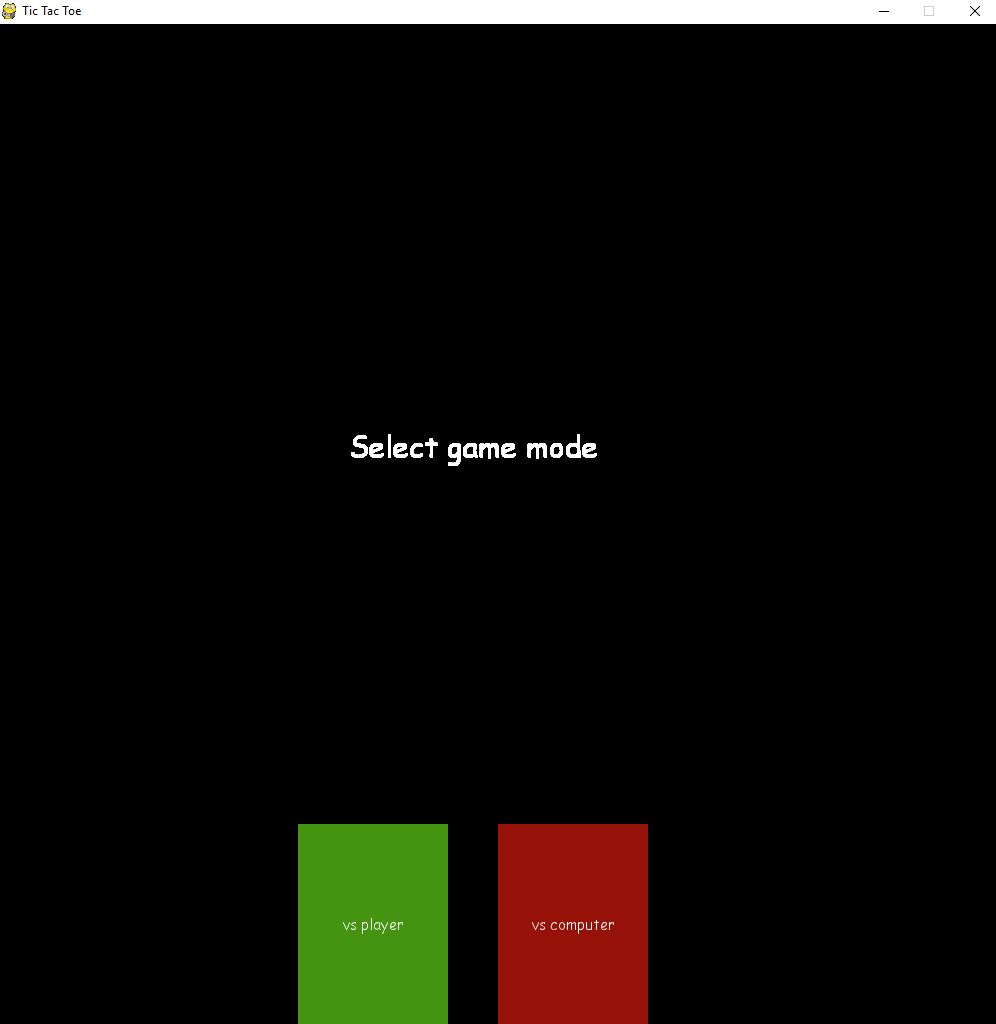
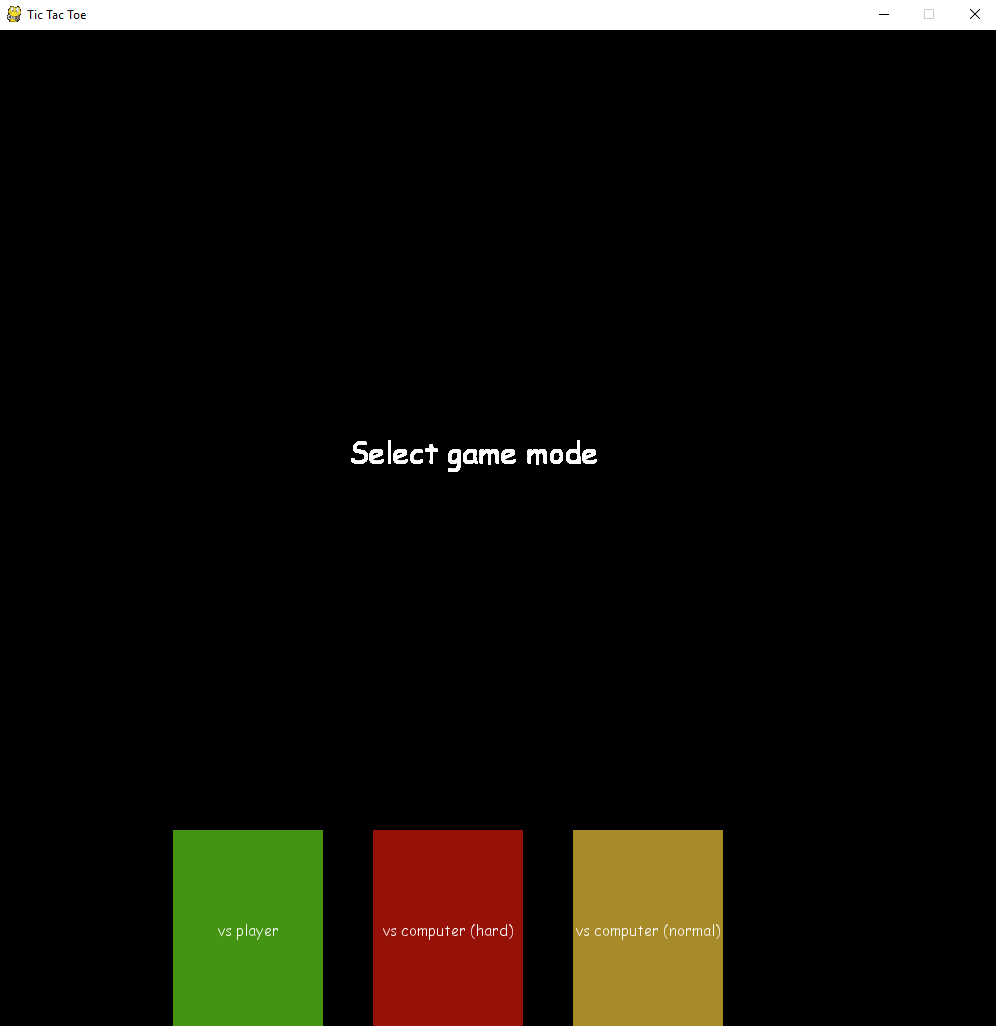
added a new game mode: vs computer (normal); split the main file into several modules

Changed region(s): [[0.1556, 0.7812, 0.747, 1.0], [0.0, 0.0, 1.0, 0.0312], [0.3424, 0.4062, 0.5914, 0.4688]]

diff --git a/main.py b/main.py
@@ -1,22 +1,14 @@
 import pygame
-import datetime
+import time
+import random
 from pygame.locals import *
-from buttons import Button, font, sound
+from utils import *
+from buttons import *
+import ai
+
 pygame.init()
-white = (255, 255, 255)
-green_active = (114, 207, 56)
-green_inactive = (68, 148, 18)
-red_active = (201, 68, 58)
-red_inactive = (150, 18, 9)
 
-buttons = []
-MODE_VS = 1
-MODE_AI = 2
 game_mode = 0
-screen = pygame.display.set_mode([1000, 1000])
-
-def make_relative((a, b)):
-    return (a-200)/200, (b-200)/200
 
 class Board:
     grid = []
@@ -50,7 +42,9 @@ class Board:
         pygame.display.flip()
 
     def check(self):
-        (row, col) = make_relative(pygame.mouse.get_pos())
+
+        (row, col) = pygame.mouse.get_pos()
+        (row, col) = make_relative(row, col)
 
         if row < 0 or row > 2 or col < 0 or col > 2:
             return
@@ -74,6 +68,8 @@ class Board:
         self.check_win(last_player)
 
     def has_won(self, whom):
+        self.show()
+        time.sleep(2)
         self.scores[whom] += 1
         self.reset()
 
@@ -84,6 +80,23 @@ class Board:
         if wins(self.grid, player):
             return self.has_won(player)
 
+done = False
+intro = True
+game_board = Board()
+
+buttons = []
+
+buttons.append(Button("vs player", 175, 800, 150, 200, green_active, green_inactive, lambda: start_game(MODE_VS)))
+buttons.append(Button("vs computer (hard)", 375, 800, 150, 200, red_active, red_inactive, lambda: start_game(MODE_AI)))
+buttons.append(Button("vs computer (normal)", 575, 800, 150, 200, orange_active, orange_inactive, lambda: start_game(MODE_AI_N)))
+
+def start_game(mode):
+    global intro, game_mode
+    intro = False
+    game_mode = mode
+    game_board.reset()
+    game_board.show()
+
 def draw_intro():
     text = font.render("Select game mode", True, white)
     screen.blit(text, (350, 400))
@@ -93,104 +106,15 @@ def draw_intro():
 
     pygame.display.flip()
 
-def start_game():
-    global game_board
-    game_board.reset()
-    game_board.show()
-
-def mode_vs():
-    global game_mode, intro
-    intro = False
-    game_mode = MODE_VS
-    start_game()
-
-def mode_ai():
-    global game_mode, intro
-    intro = False
-    game_mode = MODE_AI
-    print("mode_ai")
-    start_game()
-
-def wins(grid, player):
-    win_grids = [
-        [grid[0][0], grid[0][1], grid[0][2]],
-        [grid[1][0], grid[1][1], grid[1][2]],
-        [grid[2][0], grid[2][1], grid[2][2]],
-        [grid[0][0], grid[1][0], grid[2][0]],
-        [grid[0][1], grid[1][1], grid[2][1]],
-        [grid[0][2], grid[1][2], grid[2][2]],
-        [grid[0][0], grid[1][1], grid[2][2]],
-        [grid[2][0], grid[1][1], grid[0][2]],
-    ]
-    return [player, player, player] in win_grids
-
-def empty_cells(grid):
-    empty = []
-
-    for i, row in enumerate(grid):
-        for j, col in enumerate(row):
-            if col == None:
-                empty.append([i, j])
-    return empty
-
-def evaluate(grid):
-    if wins(grid, 'X'):
-        return -10
-    if wins(grid, '0'):
-        return 10
-    else:
-        return 0
-
-def is_over(grid):
-    return wins(grid, 'X') or wins(grid, 'O')
-
-def minimax(grid, depth, maximise):
-    if depth == 0 or is_over(grid):
-        return [evaluate(grid), -1, -1]
-
-    if maximise:
-        best = [-1000, -1, -1]
-    else:
-        best = [1000, -1, -1]
-
-    for c in empty_cells(grid):
-        i, j = c[0], c[1]
-        grid[i][j] = '0' if maximise else 'X'
-        score = minimax(grid, depth-1, False if maximise else True)
-        grid[i][j] = None
-        score[1], score[2] = i, j
-
-        if maximise:
-            if score[0] > best[0]:
-                best = score
-        else:
-            if score[0] < best[0]:
-                best = score
-
-    return best
-
-def best_ai_move():
-    global game_board
-    max_depth = len(empty_cells(game_board.grid))
-    best = minimax(game_board.grid, max_depth, True)
-    game_board.make_move(best[1], best[2])
-
-
-done = False
-intro = True
-game_board = Board()
-buttons.append(Button("vs player", 300, 800, 150, 200, green_active, green_inactive, mode_vs))
-buttons.append(Button("vs computer", 500, 800, 150, 200, red_active, red_inactive, mode_ai))
-
 while not done:
     for e in pygame.event.get():
         if e.type is QUIT:
             done = True
         elif e.type is MOUSEBUTTONUP and intro == False:
-            if game_mode == MODE_VS or game_mode == MODE_AI and game_board.player == 'X':
+            if game_mode == MODE_VS or game_board.player == 'X':
                 game_board.check()
-    if game_mode == MODE_AI and game_board.player == '0':
-        best_ai_move()
+    if game_mode != MODE_VS and game_board.player == '0':
+        ai.move(game_board, game_mode)
 
     if intro:
         draw_intro()

diff --git a/ai.py b/ai.py
@@ -1,0 +1,62 @@
+from utils import wins, MODE_VS, MODE_AI, MODE_AI_N
+
+COMP = 1
+HUMA = -1
+
+def empty_cells(grid):
+    empty = []
+
+    for i, row in enumerate(grid):
+        for j, col in enumerate(row):
+            if col == None:
+                empty.append([i, j])
+    return empty
+
+def evaluate(grid):
+    if wins(grid, 'X'):
+        return -10
+    if wins(grid, '0'):
+        return 10
+    else:
+        return 0
+
+def is_over(grid):
+    return wins(grid, 'X') or wins(grid, '0')
+
+def minimax(grid, depth, player):
+    if depth == 0 or is_over(grid):
+        return [evaluate(grid), -1, -1]
+
+    if player == COMP:
+        best = [-1000, -1, -1]
+    else:
+        best = [1000, -1, -1]
+
+    for c in empty_cells(grid):
+        i, j = c[0], c[1]
+        grid[i][j] = '0' if player == COMP else 'X'
+        score = minimax(grid, depth-1, -player)
+        grid[i][j] = None
+        score[1], score[2] = i, j
+
+        if player == COMP:
+            if score[0] > best[0]:
+                best = score
+        else:
+            if score[0] < best[0]:
+                best = score
+
+    return best
+
+def move(board, mode):
+    if(mode == MODE_AI_N):
+        move = random.choice(empty_cells(board.grid))
+    else:
+        move = best_move(board.grid)
+
+    board.make_move(move[0], move[1])
+
+def best_move(grid):
+    max_depth = len(empty_cells(grid))
+    best = minimax(grid, max_depth, COMP)
+    return (best[1], best[2])

diff --git a/utils.py b/utils.py
@@ -1,0 +1,36 @@
+import pygame
+
+pygame.init()
+
+screen = pygame.display.set_mode([1000, 1000])
+font = pygame.font.SysFont("comicsansms",20)
+
+white = (255, 255, 255)
+green_active = (114, 207, 56)
+green_inactive = (68, 148, 18)
+red_active = (201, 68, 58)
+red_inactive = (150, 18, 9)
+orange_active = (232, 192, 63)
+orange_inactive = (168, 138, 40)
+
+
+MODE_VS = 1
+MODE_AI = 2
+MODE_AI_N = 3
+
+
+def make_relative(a, b):
+    return (a-200)//200, (b-200)//200
+
+def wins(grid, player):
+    win_grids = [
+        [grid[0][0], grid[0][1], grid[0][2]], # row 1
+        [grid[1][0], grid[1][1], grid[1][2]], # row 2
+        [grid[2][0], grid[2][1], grid[2][2]], # row 3
+        [grid[0][0], grid[1][0], grid[2][0]], # col 1
+        [grid[0][1], grid[1][1], grid[2][1]], # col 2
+        [grid[0][2], grid[1][2], grid[2][2]], # col 3
+        [grid[0][0], grid[1][1], grid[2][2]], # diag 1
+        [grid[2][0], grid[1][1], grid[0][2]], # diag 2
+    ]
+    return [player, player, player] in win_grids

diff --git a/buttons.py b/buttons.py
@@ -5,6 +5,7 @@ white = (255, 255, 255)
 sound = pygame.mixer.Sound("hover.wav")
 
 font = pygame.font.SysFont("comicsansms",30)
+
 def text_obj(text, font):
     text_surf = font.render(text, True, white)
     return text_surf, text_surf.get_rect()
